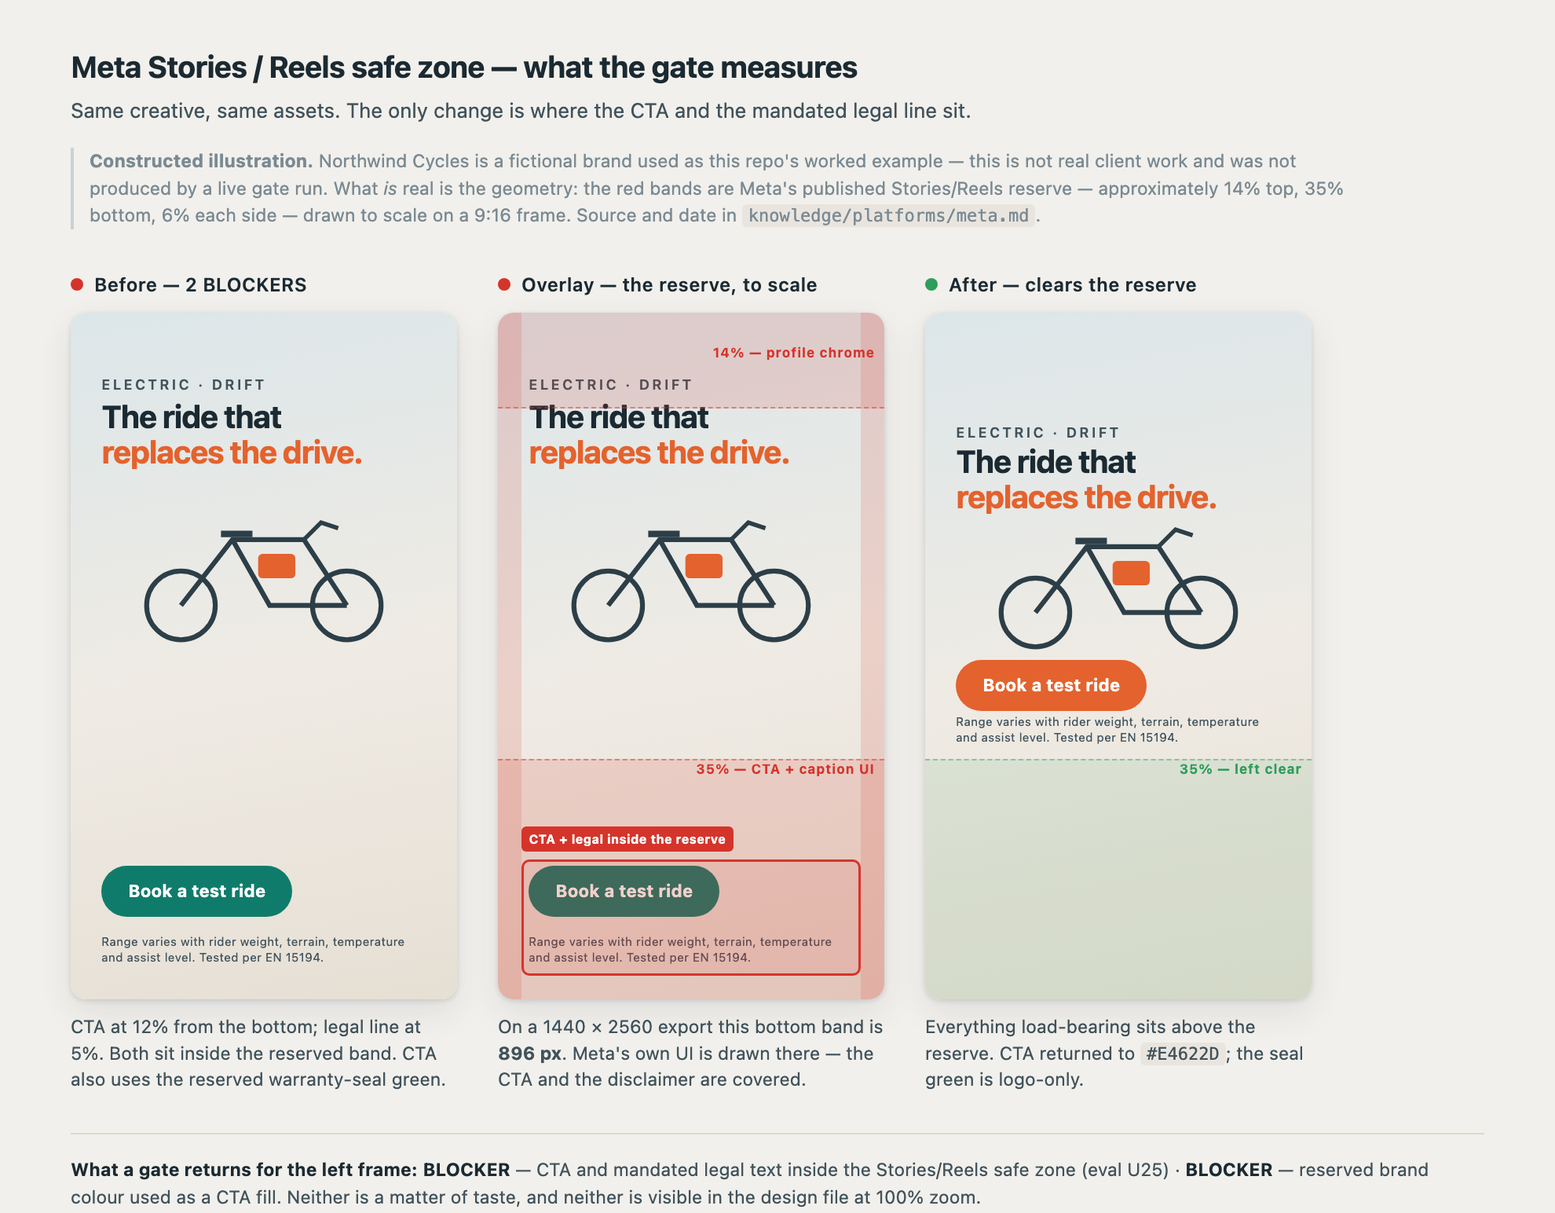
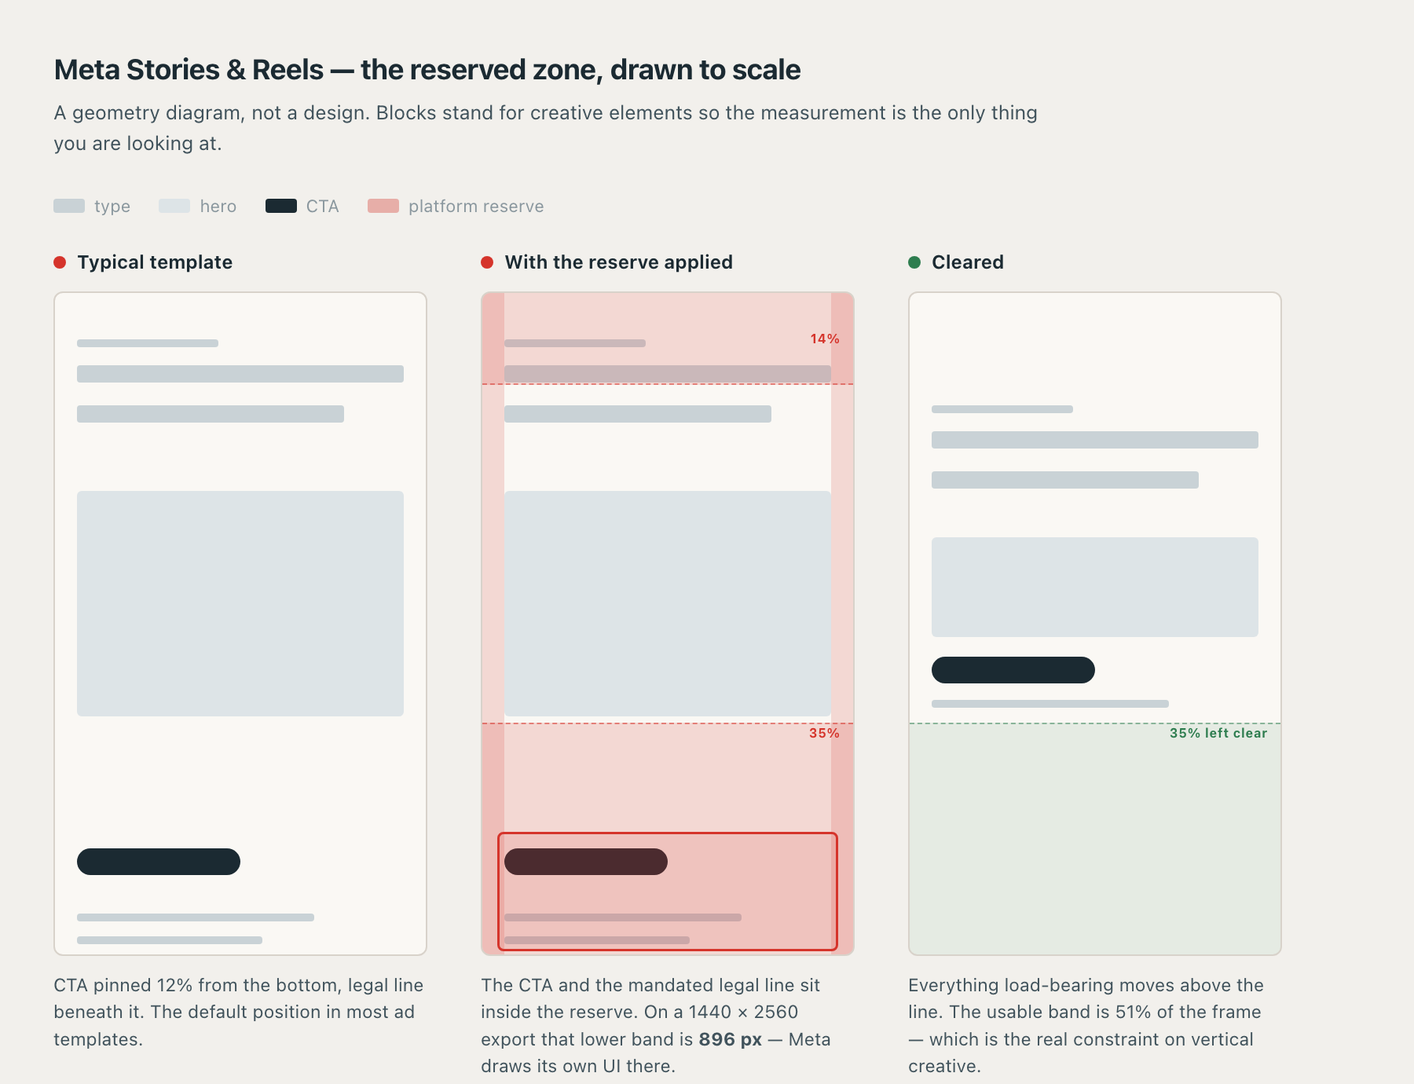
fix: v2.3.1 — the README diagram was a wireframe pretending to be an ad
The safe-zone image in the public README rendered its panels as
finished-looking ads: oversized CTA at ~60% of frame width, no scale
contrast, legal text jammed under the button, system UI font at wireframe
sizes. Every fault the craft rules in agents/designer.md exist to prevent,
sitting in the README of a repo about craft. The owner called it, correctly.

Two attempts to pixel-push it into a good ad failed — the second introduced a
CTA/hero collision. The real error was upstream: labelling a panel "After —
clears the reserve" claims "this is what good looks like", and a schematic
cannot deliver that.

Rebuilt as what it honestly is. Creative elements are plain blocks, the
reserve is drawn to scale, the point is the measurement and nothing else
invites judgement. Captions updated across README, the worked example and
examples/images/README.md.

Eval U42: make the fidelity match the intent. Anything that looks finished
will be judged as finished, and rightly.

Changed region(s): [[0.0311, 0.0312, 0.9022, 0.9971], [0.0933, 0.4362, 0.2489, 0.5297]]

diff --git a/examples/images/meta-safezone.src.html b/examples/images/meta-safezone.src.html
@@ -1,106 +1,104 @@
 <meta charset="utf-8">
 <style>
-  :root{
-    --paper:#FAF8F4; --slate:#1B2A32; --fog:#E4E9EA; --body:#41535C;
-    --orange:#E4622D; --seal:#0F7C6B; --bad:#D5342B;
-  }
+  :root{ --ink:#1B2A32; --body:#41535C; --muted:#8A979E; --line:#D8D2CA;
+         --bad:#D5342B; --good:#2E7D4F; --paper:#FAF8F4; }
   *{box-sizing:border-box;margin:0;padding:0}
-  body{background:#F2F0EC;font:13px/1.5 -apple-system,BlinkMacSystemFont,"Segoe UI",Helvetica,Arial,sans-serif;color:var(--slate);padding:28px 34px}
-  .wrap{max-width:900px;margin:0 auto}
-  h1{font-size:19px;letter-spacing:-.2px;margin-bottom:4px}
-  .sub{color:var(--body);font-size:13px;max-width:820px;margin-bottom:6px}
-  .disclaimer{font-size:11.5px;color:#7A8A93;border-left:2px solid #C9D2D6;padding-left:10px;margin:14px 0 26px;max-width:820px}
-  .row{display:flex;gap:26px;align-items:flex-start}
-  .col{flex:1;max-width:246px}
-  .cap{display:flex;align-items:center;gap:7px;font-size:12px;font-weight:600;margin-bottom:9px;letter-spacing:.2px}
+  body{background:#F2F0EC;font:13px/1.55 ui-sans-serif,-apple-system,BlinkMacSystemFont,"Segoe UI",Helvetica,Arial,sans-serif;
+       color:var(--ink);padding:30px 34px;width:900px;-webkit-font-smoothing:antialiased}
+  h1{font-size:18px;letter-spacing:-.25px;margin-bottom:4px}
+  .sub{color:var(--body);font-size:12.5px;max-width:640px;margin-bottom:22px}
+  .row{display:flex;gap:34px;align-items:flex-start}
+  .col{flex:1;max-width:238px}
+  .cap{display:flex;align-items:center;gap:7px;font-size:12px;font-weight:650;margin-bottom:9px}
   .dot{width:8px;height:8px;border-radius:50%}
-  .note{font-size:11.5px;color:var(--body);margin-top:9px;line-height:1.45}
-  .frame{position:relative;width:100%;aspect-ratio:9/16;background:var(--paper);border-radius:10px;overflow:hidden;box-shadow:0 1px 3px rgba(27,42,50,.14),0 8px 22px rgba(27,42,50,.09)}
-  /* creative content */
-  .sky{position:absolute;inset:0;background:linear-gradient(170deg,#DCE6E9 0%,#EFEBE4 52%,#E6DFD4 100%)}
-  .bike{position:absolute;left:50%;transform:translateX(-50%);width:74%}
-  .eyebrow{position:absolute;left:8%;font-size:9px;letter-spacing:1.5px;text-transform:uppercase;color:var(--body);font-weight:600}
-  .hl{position:absolute;left:8%;right:8%;font-size:20px;line-height:1.14;font-weight:700;letter-spacing:-.4px}
-  .hl em{font-style:normal;color:var(--orange)}
-  .cta{position:absolute;left:8%;border-radius:999px;padding:8px 17px;font-size:11px;font-weight:700;color:#fff}
-  .legal{position:absolute;left:8%;right:8%;font-size:7.5px;line-height:1.35;color:var(--body)}
-  /* safe zone overlay */
-  .band{position:absolute;left:0;right:0;background:rgba(213,52,43,.15);border-color:rgba(213,52,43,.5);border-style:dashed}
-  .band.top{top:0;height:14%;border-bottom-width:1px;border-top:0;border-left:0;border-right:0}
-  .band.bot{bottom:0;height:35%;border-top-width:1px;border-bottom:0;border-left:0;border-right:0}
-  .side{position:absolute;top:0;bottom:0;width:6%;background:rgba(213,52,43,.15)}
-  .side.l{left:0}.side.r{right:0}
-  .blabel{position:absolute;right:6px;font-size:8.5px;font-weight:700;color:var(--bad);letter-spacing:.3px}
-  .hit{position:absolute;border:1.5px solid var(--bad);border-radius:5px;background:rgba(213,52,43,.1)}
-  .hitlab{position:absolute;background:var(--bad);color:#fff;font-size:8px;font-weight:700;padding:2px 5px;border-radius:3px;white-space:nowrap}
-  .legend{margin-top:26px;font-size:11.5px;color:var(--body);border-top:1px solid #DDD8D0;padding-top:14px}
-  .legend b{color:var(--slate)}
+  .frame{position:relative;width:100%;aspect-ratio:9/16;background:var(--paper);
+         border:1px solid var(--line);border-radius:6px;overflow:hidden}
+  /* schematic elements — deliberately blocks, not a pretend ad */
+  .blk{position:absolute;left:6%;right:6%;background:#C9D2D6;border-radius:2px}
+  .blk.sm{height:5px} .blk.md{height:11px} .blk.hero{background:#DDE4E7;border-radius:3px}
+  .pill{position:absolute;left:6%;height:17px;width:44%;border-radius:999px;background:var(--ink)}
+  .tag{position:absolute;font-size:8px;font-weight:700;letter-spacing:.2px}
+  /* reserve overlay */
+  .band{position:absolute;left:0;right:0;background:rgba(213,52,43,.16)}
+  .band.t{top:0;height:14%;border-bottom:1px dashed rgba(213,52,43,.55)}
+  .band.b{bottom:0;height:35%;border-top:1px dashed rgba(213,52,43,.55)}
+  .side{position:absolute;top:0;bottom:0;width:6%;background:rgba(213,52,43,.16)}
+  .hit{position:absolute;left:4%;right:4%;border:1.5px solid var(--bad);border-radius:4px;background:rgba(213,52,43,.12)}
+  .note{font-size:11.5px;color:var(--body);margin-top:10px;line-height:1.5}
+  .legend{margin-top:24px;padding-top:14px;border-top:1px solid var(--line);font-size:11.5px;color:var(--body);max-width:790px}
+  .legend b{color:var(--ink)}
   code{font:11px ui-monospace,SFMono-Regular,Menlo,monospace;background:#E9E5DE;padding:1px 4px;border-radius:3px}
+  .key{display:flex;gap:18px;margin-bottom:18px;font-size:11px;color:var(--muted)}
+  .key span{display:flex;align-items:center;gap:6px}
+  .sw{width:20px;height:9px;border-radius:2px;display:inline-block}
 </style>
-<div class="wrap">
-  <h1>Meta Stories / Reels safe zone — what the gate measures</h1>
-  <p class="sub">Same creative, same assets. The only change is where the CTA and the mandated legal line sit.</p>
-  <p class="disclaimer">
-    <b>Constructed illustration.</b> Northwind Cycles is a fictional brand used as this repo's worked example — this is not
-    real client work and was not produced by a live gate run. What <em>is</em> real is the geometry: the red bands are
-    Meta's published Stories/Reels reserve — approximately 14% top, 35% bottom, 6% each side — drawn to scale on a 9:16
-    frame. Source and date in <code>knowledge/platforms/meta.md</code>.
-  </p>
+<h1>Meta Stories &amp; Reels — the reserved zone, drawn to scale</h1>
+<p class="sub">A geometry diagram, not a design. Blocks stand for creative elements so the measurement is
+the only thing you are looking at.</p>
+<div class="key">
+  <span><i class="sw" style="background:#C9D2D6"></i> type</span>
+  <span><i class="sw" style="background:#DDE4E7"></i> hero</span>
+  <span><i class="sw" style="background:#1B2A32"></i> CTA</span>
+  <span><i class="sw" style="background:rgba(213,52,43,.35)"></i> platform reserve</span>
+</div>
 
-  <div class="row">
-    <!-- BEFORE -->
-    <div class="col">
-      <div class="cap"><span class="dot" style="background:var(--bad)"></span>Before — 2 BLOCKERS</div>
-      <div class="frame">
-        <div class="sky"></div>
-        <svg class="bike" style="top:26%" viewBox="0 0 200 110"><g fill="none" stroke="#2C3E47" stroke-width="3.4"><circle cx="42" cy="80" r="24"/><circle cx="158" cy="80" r="24"/><path d="M42 80 L78 34 L128 34 L158 80 M78 34 L104 80 L158 80"/><path d="M70 30 L92 30" stroke-width="4.6"/><path d="M128 34 L140 22 L152 26" stroke-width="3"/></g><rect x="96" y="44" width="26" height="17" rx="3" fill="#E4622D"/></svg>
-        <div class="eyebrow" style="top:9%">ELECTRIC · DRIFT</div>
-        <div class="hl" style="top:12.5%">The ride that<br><em>replaces the drive.</em></div>
-        <div class="cta" style="bottom:12%;background:var(--seal)">Book a test ride</div>
-        <div class="legal" style="bottom:5%">Range varies with rider weight, terrain, temperature and assist level. Tested per EN 15194.</div>
-      </div>
-      <div class="note">CTA at 12% from the bottom; legal line at 5%. Both sit inside the reserved band. CTA also uses the reserved warranty-seal green.</div>
+<div class="row">
+  <!-- 1 -->
+  <div class="col">
+    <div class="cap"><span class="dot" style="background:var(--bad)"></span>Typical template</div>
+    <div class="frame">
+      <div class="blk sm" style="top:7%;right:56%"></div>
+      <div class="blk md" style="top:11%"></div>
+      <div class="blk md" style="top:17%;right:22%"></div>
+      <div class="blk hero" style="top:30%;height:34%"></div>
+      <div class="pill" style="bottom:12%"></div>
+      <div class="blk sm" style="bottom:5%;right:30%"></div>
+      <div class="blk sm" style="bottom:1.5%;right:44%"></div>
     </div>
-
-    <!-- OVERLAY -->
-    <div class="col">
-      <div class="cap"><span class="dot" style="background:var(--bad)"></span>Overlay — the reserve, to scale</div>
-      <div class="frame">
-        <div class="sky"></div>
-        <svg class="bike" style="top:26%" viewBox="0 0 200 110"><g fill="none" stroke="#2C3E47" stroke-width="3.4"><circle cx="42" cy="80" r="24"/><circle cx="158" cy="80" r="24"/><path d="M42 80 L78 34 L128 34 L158 80 M78 34 L104 80 L158 80"/><path d="M70 30 L92 30" stroke-width="4.6"/><path d="M128 34 L140 22 L152 26" stroke-width="3"/></g><rect x="96" y="44" width="26" height="17" rx="3" fill="#E4622D"/></svg>
-        <div class="eyebrow" style="top:9%">ELECTRIC · DRIFT</div>
-        <div class="hl" style="top:12.5%">The ride that<br><em>replaces the drive.</em></div>
-        <div class="cta" style="bottom:12%;background:var(--seal)">Book a test ride</div>
-        <div class="legal" style="bottom:5%">Range varies with rider weight, terrain, temperature and assist level. Tested per EN 15194.</div>
-        <div class="side l"></div><div class="side r"></div>
-        <div class="band top"></div><div class="blabel" style="top:4.5%">14% — profile chrome</div>
-        <div class="band bot"></div><div class="blabel" style="bottom:32%">35% — CTA + caption UI</div>
-        <div class="hit" style="left:6%;right:6%;bottom:3.4%;height:17%"></div>
-        <div class="hitlab" style="left:6%;bottom:21.5%">CTA + legal inside the reserve</div>
-      </div>
-      <div class="note">On a 1440 × 2560 export this bottom band is <b>896 px</b>. Meta's own UI is drawn there — the CTA and the disclaimer are covered.</div>
-    </div>
-
-    <!-- AFTER -->
-    <div class="col">
-      <div class="cap"><span class="dot" style="background:#2E9E5B"></span>After — clears the reserve</div>
-      <div class="frame">
-        <div class="sky"></div>
-        <svg class="bike" style="top:27%" viewBox="0 0 200 110"><g fill="none" stroke="#2C3E47" stroke-width="3.4"><circle cx="42" cy="80" r="24"/><circle cx="158" cy="80" r="24"/><path d="M42 80 L78 34 L128 34 L158 80 M78 34 L104 80 L158 80"/><path d="M70 30 L92 30" stroke-width="4.6"/><path d="M128 34 L140 22 L152 26" stroke-width="3"/></g><rect x="96" y="44" width="26" height="17" rx="3" fill="#E4622D"/></svg>
-        <div class="eyebrow" style="top:16%">ELECTRIC · DRIFT</div>
-        <div class="hl" style="top:19%">The ride that<br><em>replaces the drive.</em></div>
-        <div class="legal" style="bottom:37%">Range varies with rider weight, terrain, temperature and assist level. Tested per EN 15194.</div>
-        <div class="cta" style="bottom:42%;background:var(--orange)">Book a test ride</div>
-        <div class="band bot" style="background:rgba(46,158,91,.10);border-color:rgba(46,158,91,.45)"></div>
-        <div class="blabel" style="bottom:32%;color:#2E9E5B">35% — left clear</div>
-      </div>
-      <div class="note">Everything load-bearing sits above the reserve. CTA returned to <code>#E4622D</code>; the seal green is logo-only.</div>
-    </div>
+    <div class="note">CTA pinned 12% from the bottom, legal line beneath it. The default position in most
+      ad templates.</div>
   </div>
 
-  <p class="legend">
-    <b>What a gate returns for the left frame:</b> <b>BLOCKER</b> — CTA and mandated legal text inside the Stories/Reels
-    safe zone (eval U25) · <b>BLOCKER</b> — reserved brand colour used as a CTA fill. Neither is a matter of taste, and
-    neither is visible in the design file at 100% zoom.
-  </p>
+  <!-- 2 -->
+  <div class="col">
+    <div class="cap"><span class="dot" style="background:var(--bad)"></span>With the reserve applied</div>
+    <div class="frame">
+      <div class="blk sm" style="top:7%;right:56%"></div>
+      <div class="blk md" style="top:11%"></div>
+      <div class="blk md" style="top:17%;right:22%"></div>
+      <div class="blk hero" style="top:30%;height:34%"></div>
+      <div class="pill" style="bottom:12%"></div>
+      <div class="blk sm" style="bottom:5%;right:30%"></div>
+      <div class="blk sm" style="bottom:1.5%;right:44%"></div>
+      <div class="side" style="left:0"></div><div class="side" style="right:0"></div>
+      <div class="band t"></div><div class="tag" style="top:5.5%;right:8px;color:var(--bad)">14%</div>
+      <div class="band b"></div><div class="tag" style="bottom:32%;right:8px;color:var(--bad)">35%</div>
+      <div class="hit" style="bottom:0.5%;height:18%"></div>
+    </div>
+    <div class="note">The CTA and the mandated legal line sit inside the reserve. On a 1440 × 2560 export
+      that lower band is <b>896 px</b> — Meta draws its own UI there.</div>
+  </div>
+
+  <!-- 3 -->
+  <div class="col">
+    <div class="cap"><span class="dot" style="background:var(--good)"></span>Cleared</div>
+    <div class="frame">
+      <div class="blk sm" style="top:17%;right:56%"></div>
+      <div class="blk md" style="top:21%"></div>
+      <div class="blk md" style="top:27%;right:22%"></div>
+      <div class="blk hero" style="top:37%;height:15%"></div>
+      <div class="pill" style="top:55%"></div>
+      <div class="blk sm" style="top:61.5%;right:30%"></div>
+      <div class="band b" style="background:rgba(46,125,79,.10);border-top:1px dashed rgba(46,125,79,.5)"></div>
+      <div class="tag" style="bottom:32%;right:8px;color:var(--good)">35% left clear</div>
+    </div>
+    <div class="note">Everything load-bearing moves above the line. The usable band is 51% of the frame —
+      which is the real constraint on vertical creative.</div>
+  </div>
 </div>
+
+<p class="legend"><b>What is real here is the geometry.</b> Meta publishes a reserve of approximately
+14% top, 35% bottom and 6% each side for Stories and Reels — source and verification date in
+<code>knowledge/platforms/meta.md</code>. The elements are drawn as blocks on purpose: this diagram
+measures a constraint, it does not demonstrate a layout. A design analyst flags the middle frame as a
+BLOCKER under eval U25, and it is not visible in the design file at 100% zoom.</p>

diff --git a/README.md b/README.md
@@ -31,12 +31,12 @@ Most agent packs are personas — a prompt that says "you are a senior designer"
 built the other way round: **every rule in it exists because breaking it cost something real first.**
 
 The eval table records its own history. `MISSED — client deleted the work` is a row in it. So is
-`MISSED — client caught after ~500k tokens`. Twelve of the forty-one are marked MISSED — meaning a
+`MISSED — client caught after ~500k tokens`. Twelve of the forty-two are marked MISSED — meaning a
 human found it and the gates did not. Those rows are why the rules above them are worded as they are.
 
 Three things here are unusual enough to be the reason to look:
 
-- **Evals with outcomes recorded.** 41 cases, each naming the agent that must catch it *unhinted*, each
+- **Evals with outcomes recorded.** 42 cases, each naming the agent that must catch it *unhinted*, each
   marked MISSED, CAUGHT, or explicitly *codified* where it came from a rule rather than a logged failure.
   You can tell evidence from policy at a glance.
 - **A knowledge layer that knows when it's stale.** Every platform spec is traced to the platform's own
@@ -48,11 +48,12 @@ Three things here are unusual enough to be the reason to look:
   finding. Budget for it: a full chain is a meaningful spend, and the Financial Controller exists
   precisely because that needs watching.
 
-![Meta Stories and Reels safe zone: the same creative before and after, with Meta's published reserve drawn to scale](examples/images/meta-safezone-before-after.png)
+![Meta Stories and Reels reserved zone drawn to scale on three schematic frames](examples/images/meta-safezone-before-after.png)
 
-*Constructed illustration on the fictional example profile — not real client work, and not the output of
-a live gate run. The geometry is real: those bands are Meta's published Stories/Reels reserve, drawn to
-scale, sourced and dated in [`knowledge/platforms/meta.md`](knowledge/platforms/meta.md).*
+*A geometry diagram, not a design — the elements are blocks on purpose, so the measurement is the only
+thing you are judging. The reserve is Meta's published figure, sourced and dated in
+[`knowledge/platforms/meta.md`](knowledge/platforms/meta.md). This is the defect the design-analyst
+raises as eval U25, and it is invisible in the design file at 100% zoom.*
 
 **[→ A worked gate run, start to finish](examples/worked-gate-run.md)** — the fastest way to judge
 whether this is worth installing.

diff --git a/evals/universal-cases.md b/evals/universal-cases.md
@@ -51,6 +51,7 @@ difference between evidence and policy.
 | U39 | A placed asset's layer name asserts its provenance instead of citing it | An assertion is not a citation. Name the file or node id, so lineage is checkable without asking the person who placed it | designer, design-analyst | CAUGHT by the measurement gate — hero named "keyed, source-only" with no file cited |
 | U40 | The profile's font and its documented fallback are both missing, and the build substitutes silently | A missing face is a BLOCKING flag raised at the top of the return, not a footnote. Silent substitution is how an unshippable export reaches a client | designer | CAUGHT by the measurement gate — flagged in notes but rendered unflagged in the file |
 | U41 | A constraint the team cannot fix — a font absent from the machine, an asset's native resolution, an unanswered client question — is reported as a BLOCKER, so no build can ever pass | Separate defect from environment. When only environment items remain the verdict is COMP-APPROVED, with a checklist to clear before export. A gate that can only say "not yet" is one people start waiving | quality-officer, art-director, orchestration engine | CAUGHT after three build rounds could not terminate — the font was never going to install, so every gate correctly returned a permanent failure |
+| U42 | A schematic, wireframe or spec diagram is dressed to look like finished work, so viewers judge its craft instead of reading its point | Make the fidelity match the intent. A diagram that measures a constraint should look like a diagram; anything that looks finished will be judged as finished, and rightly | art-director, designer | CAUGHT by the repo owner — a safe-zone diagram in the public README was rendered as a pretend ad and read as a bad one |
 
 ## Scoring
 A team revision passes when every case is caught by the named agent without hints. A case that used to

diff --git a/examples/images/README.md b/examples/images/README.md
@@ -17,11 +17,15 @@ kill %1
 
 ## What these are, and are not
 
-**Constructed illustrations using the fictional `example-northwind-cycles` profile.** They are not real
-client work and were not produced by a live gate run.
+**Geometry diagrams, not designs.** Creative elements are drawn as plain blocks on purpose.
 
-What is real in them is the **geometry**: `meta-safezone-before-after.png` draws Meta's published
-Stories/Reels reserve — approximately 14% top, 35% bottom, 6% each side — to scale on a 9:16 frame. That
-figure, its source URL and its verification date live in `knowledge/platforms/meta.md`.
+An earlier version of `meta-safezone-before-after.png` rendered the panels as finished-looking ads with
+a headline, a CTA pill and a legal line. That was a mistake: a schematic dressed as a finished ad invites
+judgement on its craft, which it cannot survive, and it did — in a repo whose whole subject is craft.
+A diagram should look like a diagram.
+
+What is real is the **geometry**: Meta's published Stories/Reels reserve, approximately 14% top,
+35% bottom and 6% each side, drawn to scale on a 9:16 frame. That figure, its source URL and its
+verification date live in `knowledge/platforms/meta.md`.
 
 If that spec changes, the image is wrong. Regenerate it in the same pass that updates the knowledge file.

diff --git a/CHANGELOG.md b/CHANGELOG.md
@@ -307,3 +307,18 @@ waiving.**
   telling the two apart — including the warning not to park a defect under ENVIRONMENT to avoid
   arguing about it.
 - Eval **U41**.
+
+## [2.3.1] — 2026-09-08
+
+### Fixed
+- **The README's diagram was a schematic dressed as a finished ad, and read as a bad one.** Oversized
+  CTA, no scale contrast, legal text jammed against the button, system UI font at wireframe sizes —
+  every fault the craft rules in `agents/designer.md` exist to prevent, in the README of a repo about
+  craft. Rebuilt as an honest geometry diagram: creative elements are plain blocks, the reserve is drawn
+  to scale, and nothing pretends to be a layout.
+- Captions in `README.md`, `examples/worked-gate-run.md` and `examples/images/README.md` updated to
+  describe it as a diagram rather than a before/after of a creative.
+
+### Added
+- Eval **U42** — a schematic dressed as finished work gets judged on craft instead of read for its
+  point. Make the fidelity match the intent.

diff --git a/examples/worked-gate-run.md b/examples/worked-gate-run.md
@@ -41,10 +41,11 @@ test is refused with `INVALID PLAN`, not quietly executed.
 
 ## What one of these findings looks like
 
-![Before and after: CTA and legal line inside, then clear of, Meta's Stories and Reels safe zone](images/meta-safezone-before-after.png)
+![Meta Stories and Reels reserved zone drawn to scale on three schematic frames](images/meta-safezone-before-after.png)
 
 The safe-zone finding below is the one people find hardest to believe until they see it measured. The
-design file looks fine at 100% zoom; the placement covers the bottom third.
+design file looks fine at 100% zoom; the placement covers the bottom third. The frames above are
+schematic on purpose — a diagram that measures a constraint, not an example of a layout.
 
 ## Phase 2 — findings
 

diff --git a/docs/QUICKSTART.md b/docs/QUICKSTART.md
@@ -90,7 +90,7 @@ different design tool? Widen or replace that regex — it is the only tool-speci
 
 ## 6. Run the evals
 
-`evals/universal-cases.md` holds 41 domain-agnostic failure classes with their outcomes recorded. Give
+`evals/universal-cases.md` holds 42 domain-agnostic failure classes with their outcomes recorded. Give
 an agent a case input with **no hint**, and check whether it raises the expected catch. Do this after any
 brief edit — a case that used to pass and now fails is a regression.
 
